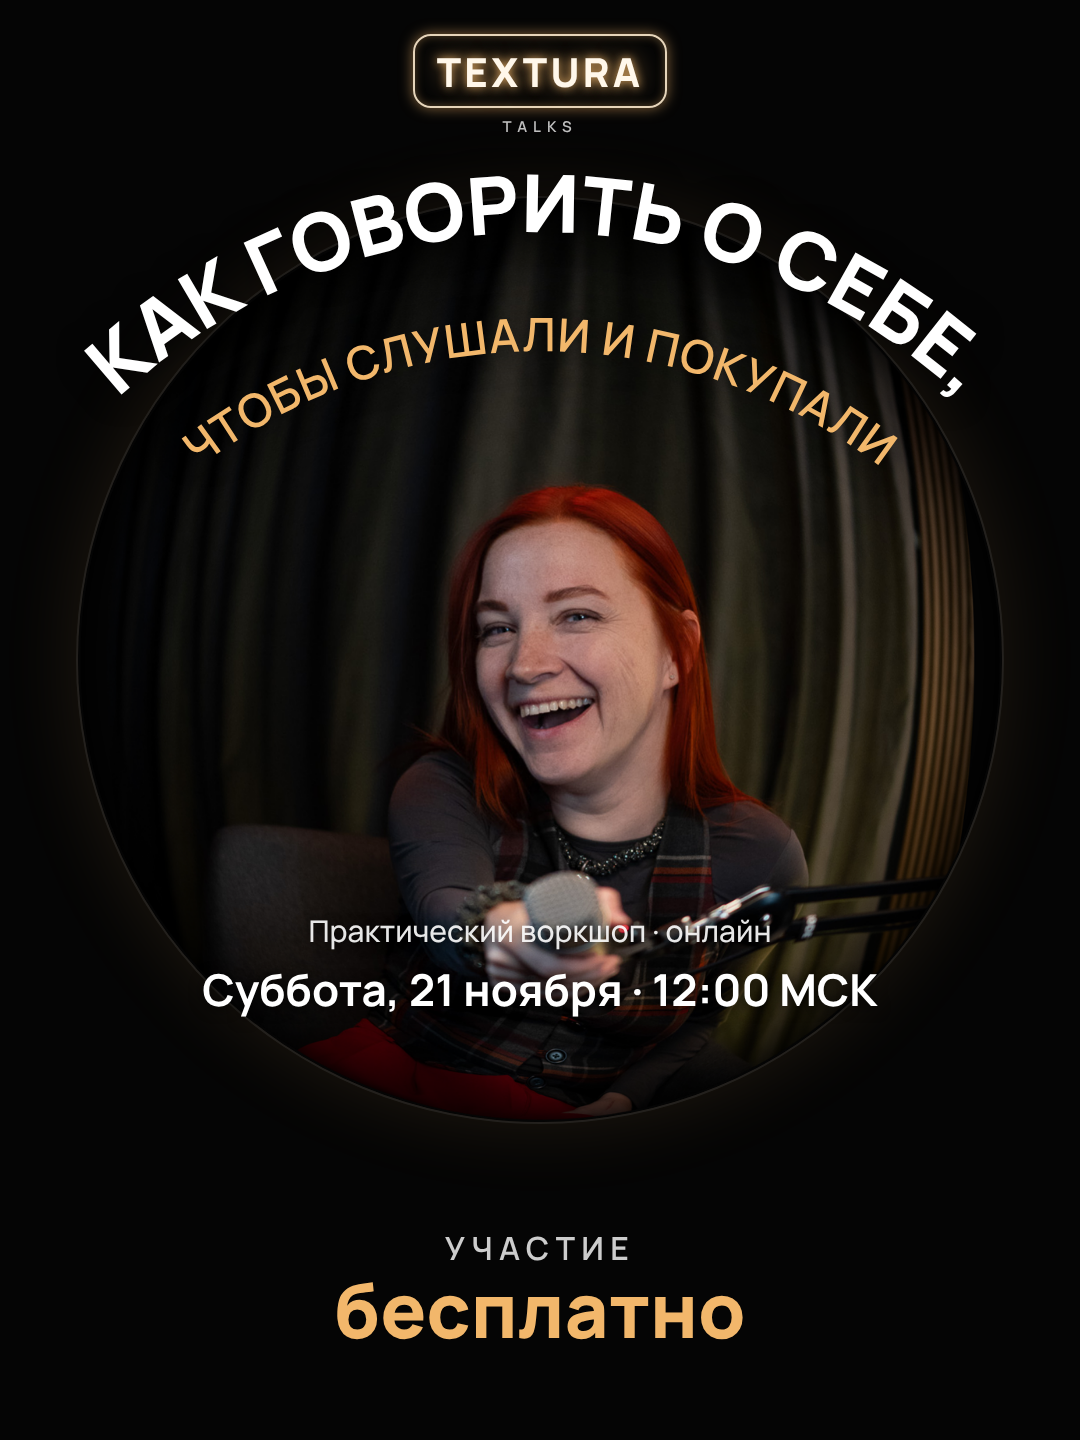
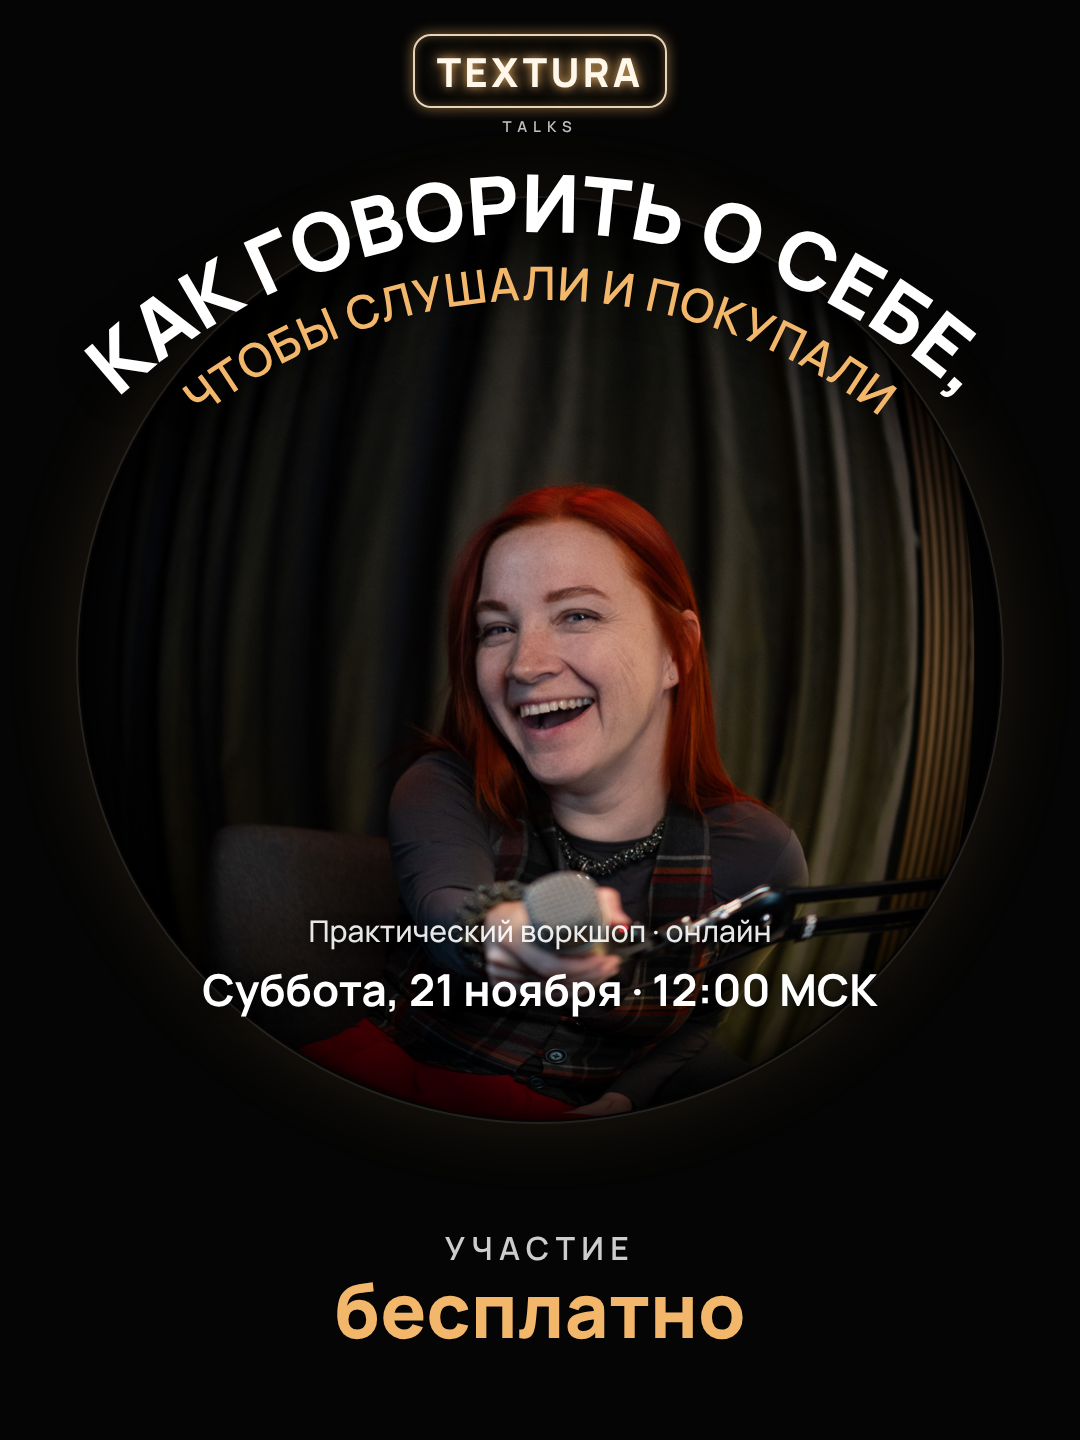
Workshop cover: tighten subtitle arc to headline
Claude-Session: https://claude.ai/code/session_01EUhV7va23MNh7ydDpeuyX7

Changed region(s): [[0.1833, 0.1875, 0.825, 0.3125]]

diff --git a/textura-carousel/workshop.html b/textura-carousel/workshop.html
@@ -126,7 +126,7 @@
   <svg viewBox="0 0 1080 1440" style="position:absolute; inset:0; width:1080px; height:1440px; z-index:2; overflow:visible;">
     <defs>
       <path id="arc1" d="M 60 460 A 620 620 0 0 1 1020 460"/>
-      <path id="arc2" d="M 160 500 A 560 560 0 0 1 920 500"/>
+      <path id="arc2" d="M 112.6 502.6 A 552 552 0 0 1 967.4 502.6"/>
     </defs>
     <text style="font-family:Manrope; font-weight:800; font-size:80px; fill:#fff; filter:drop-shadow(0 4px 14px rgba(0,0,0,.5));"><textPath href="#arc1" startOffset="50%" text-anchor="middle">КАК ГОВОРИТЬ О&#160;СЕБЕ,</textPath></text>
     <text style="font-family:Manrope; font-weight:600; font-size:46px; letter-spacing:1px; fill:#F2B76B; filter:drop-shadow(0 4px 14px rgba(0,0,0,.6));"><textPath href="#arc2" startOffset="50%" text-anchor="middle">ЧТОБЫ СЛУШАЛИ И&#160;ПОКУПАЛИ</textPath></text>
